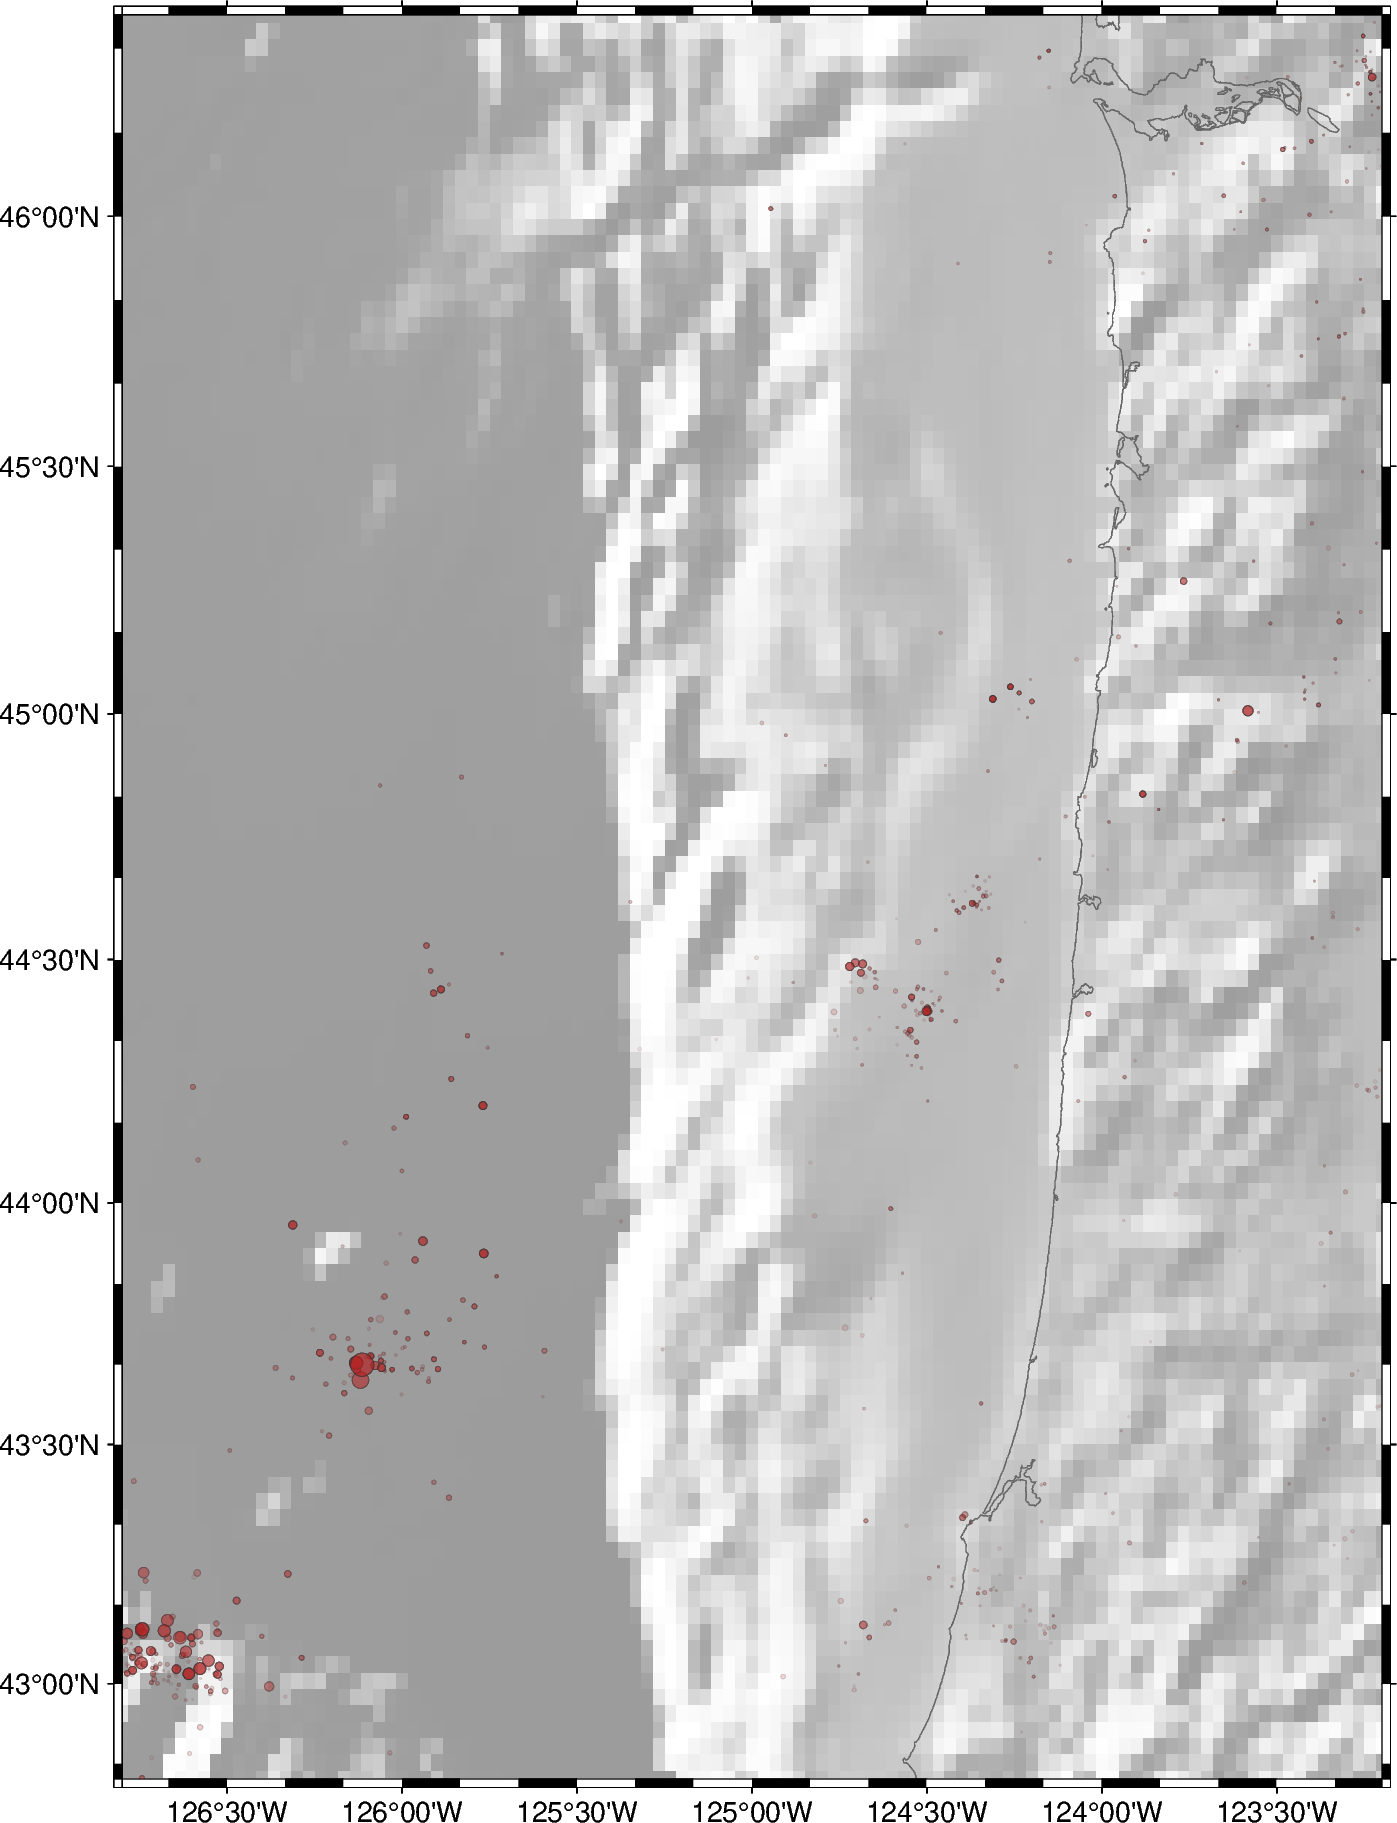
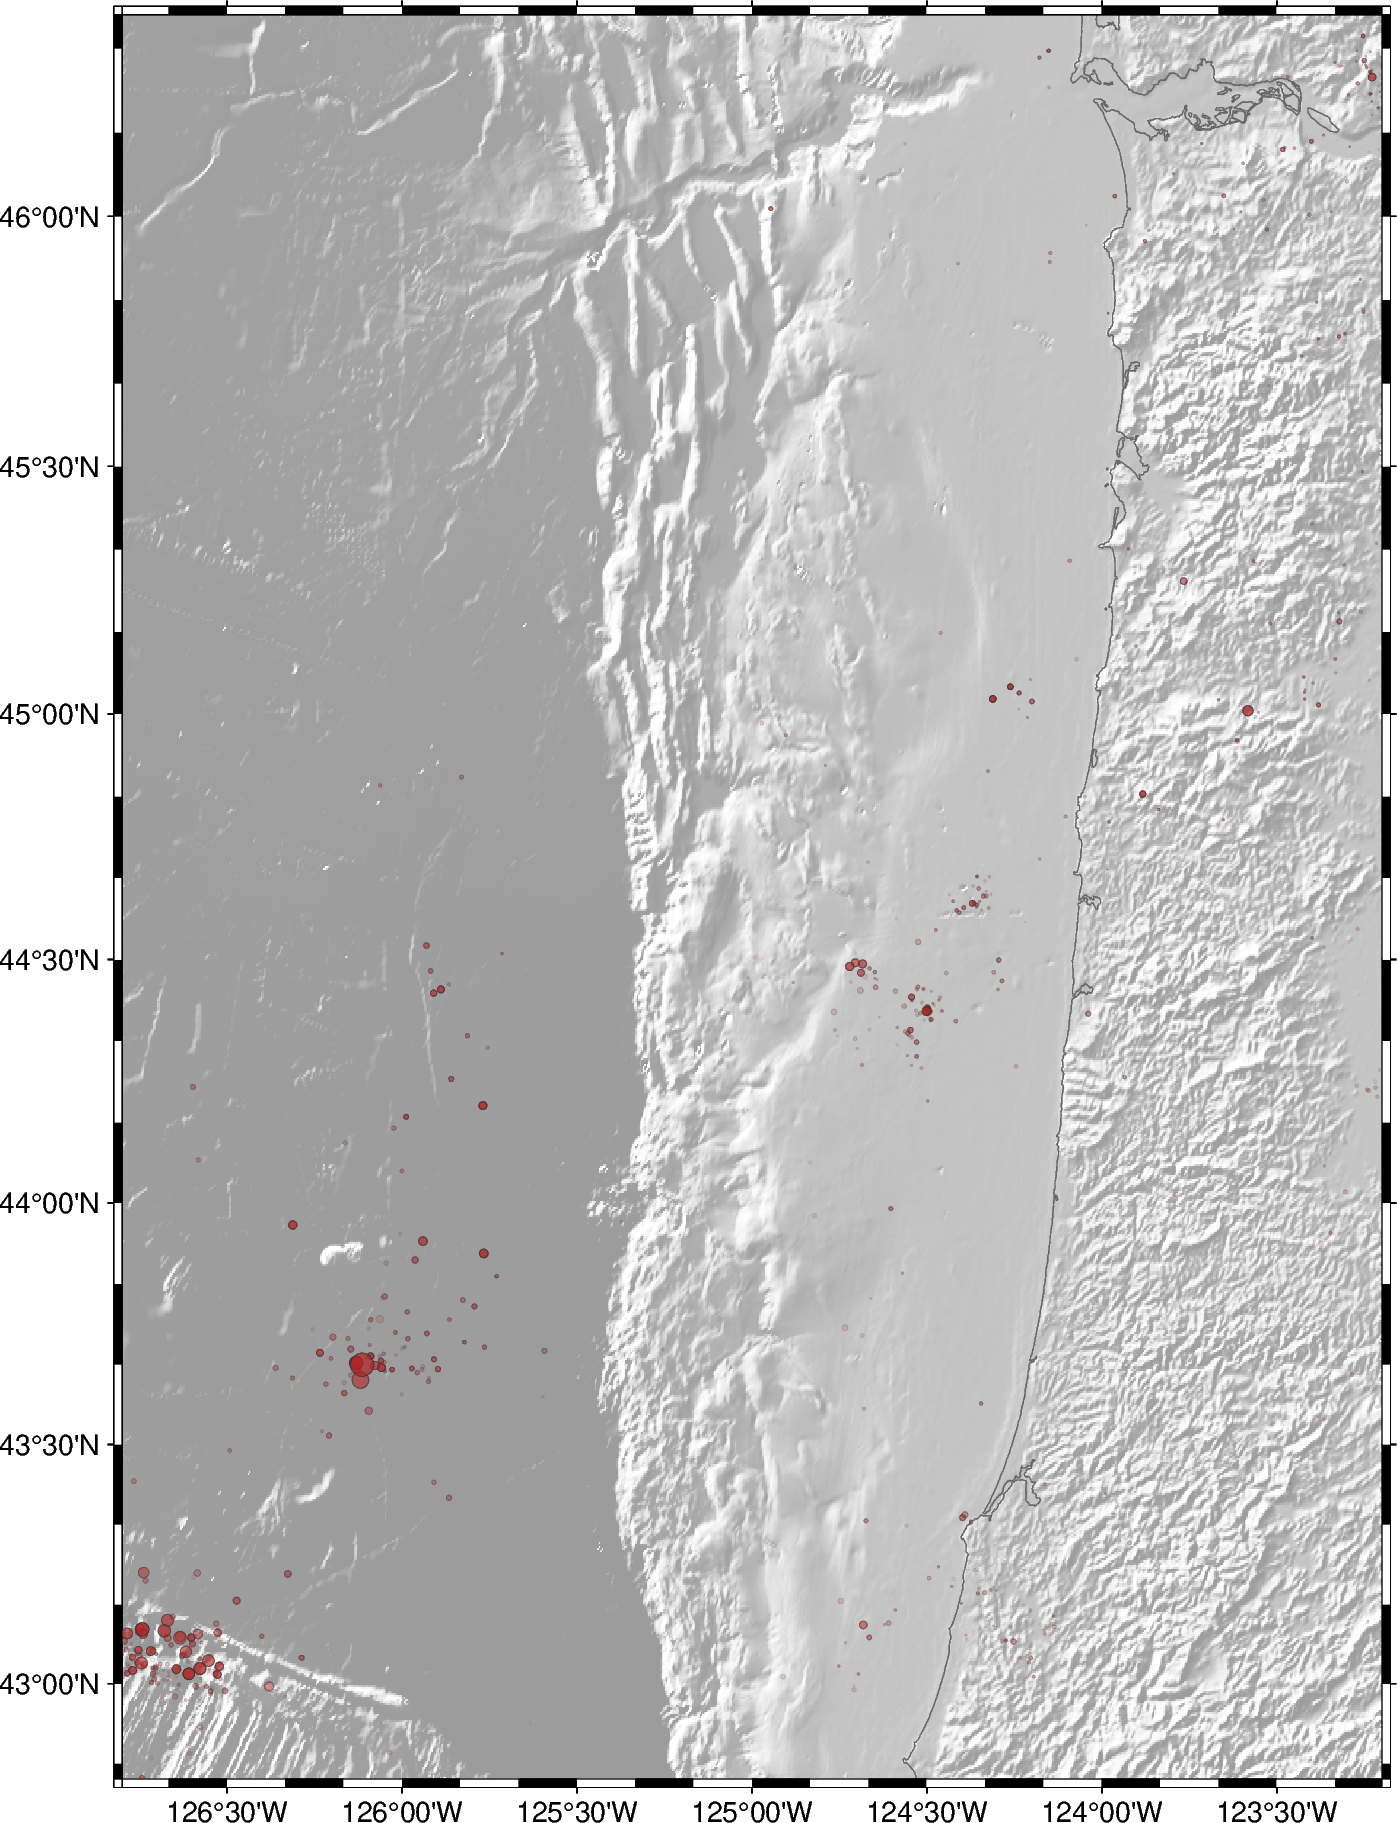
Higher-res (15s) bathymetry for zooms; Puget Sound slab-contour figure
- phase5_pygmt_map.py: default relief is now 'auto' -> 15s (~450 m) for the regional
  zooms, 02m for the full margin (the GMT relief server resolves now). Add a 'puget'
  region and a --slab-contours option that overlays Slab2 interface depth contours
  (fig.contour, 10 km interval) so slab-following seismicity is visible.
- All six regional zooms regenerated at 15s.
- Discussion: add fig:puget -- deep Puget Sound seismicity concentrates between the
  40-60 km Slab2 contours and trends parallel to them, following the along-strike
  curvature of the subducting plate (answers the observed orientation).

diff --git a/4_relocation/magnitude/phase5_pygmt_map.py b/4_relocation/magnitude/phase5_pygmt_map.py
@@ -25,6 +25,8 @@ import numpy as np
 import pandas as pd
 import pygmt
 
+SLAB = "../../data/slab2/cas_slab2_dep.xyz"
+
 
 def ml_to_size_cm(ml):
     """Marker diameter (cm) growing strongly with magnitude (exaggerated so large
@@ -54,6 +56,7 @@ REGIONS = {
     "endeavour": [-130.4, -127.2, 47.4, 49.8],   # Endeavour/JdF ridge + Nootka fault
     "wa_margin": [-127.6, -123.2, 46.2, 49.2],   # offshore Washington forearc
     "or_margin": [-126.8, -123.2, 42.8, 46.4],   # offshore Oregon forearc
+    "puget":     [-123.6, -121.4, 46.6, 48.6],   # Puget Sound (deep slab-arch seismicity)
 }
 
 
@@ -68,8 +71,10 @@ def main(argv=None):
     p.add_argument("--color", default="firebrick", help="single fill (confidence mode)")
     p.add_argument("--region", default="full", choices=list(REGIONS),
                    help="map extent preset (full margin or a regional zoom)")
-    p.add_argument("--relief-res", default="02m",
-                   help="earth-relief resolution (02m is cached; 15s/30s need download)")
+    p.add_argument("--relief-res", default="auto",
+                   help="earth-relief resolution ('auto' = 15s for zooms, 02m full)")
+    p.add_argument("--slab-contours", action="store_true",
+                   help="overlay Slab2 interface depth contours (10 km interval)")
     p.add_argument("--legend", dest="legend", action="store_true", default=None,
                    help="draw the size/opacity legends (default: only on the full map)")
     p.add_argument("--no-legend", dest="legend", action="store_false")
@@ -98,9 +103,10 @@ def main(argv=None):
 
     fig = pygmt.Figure()
     proj = "M16c"
-    # 02m relief covers the whole margin and is the one cached locally; finer grids
-    # (15s/30s) need a per-tile download and are used only if --relief-res is passed.
+    # finer relief for the regional zooms (15s ~ 450 m), 02m for the full margin
     res = args.relief_res
+    if res == "auto":
+        res = "15s" if (xmax - xmin) <= 5 else "02m"
     try:                                             # gray, semi-transparent shaded relief
         grid = pygmt.datasets.load_earth_relief(resolution=res, region=region)
         pygmt.makecpt(cmap="gray", series=[-6000, 4000])
@@ -126,6 +132,15 @@ def main(argv=None):
         transp = picks_to_transparency(picks, picks_ref)
         fig.plot(x=df["evlo"], y=df["evla"], size=size, fill=args.color,
                  style="cc", pen="0.2p,gray20", transparency=transp)
+
+    if args.slab_contours and os.path.exists(os.path.expanduser(SLAB)):
+        s = pd.read_csv(os.path.expanduser(SLAB), names=["lon", "lat", "v"])
+        s["lon"] = np.where(s.lon > 180, s.lon - 360, s.lon)
+        s = s.dropna()
+        s = s[(s.lon.between(xmin, xmax)) & (s.lat.between(ymin, ymax))]
+        # Slab2 interface depth contours (km) reveal the slab curvature/strike
+        fig.contour(x=s.lon, y=s.lat, z=np.abs(s.v), region=region, projection=proj,
+                    levels=10, annotation="20+f7p", pen="0.6p,dodgerblue3")
 
     if draw_legend:
         sx, sy = xmax - xmin, ymax - ymin

diff --git a/paper/export_figures.py b/paper/export_figures.py
@@ -74,6 +74,10 @@ SCRIPT_FIGURES = [
      "cascadia_ML_map_wa_margin.png", _MAG),
     ("fig_regions/or_margin.png", _PHASE5, ["--region", "or_margin"],
      "cascadia_ML_map_or_margin.png", _MAG),
+    # Puget Sound with Slab2 interface depth contours (slab-following seismicity)
+    ("fig_slab_puget.png", _PHASE5,
+     ["--region", "puget", "--slab-contours", "--legend"],
+     "cascadia_ML_map_puget.png", _MAG),
     # supplementary analysis figures
     ("supp_depth_analysis.png", "4_relocation/magnitude/phase7_depth_analysis.py", [],
      "depth_analysis.png", _MAG),
